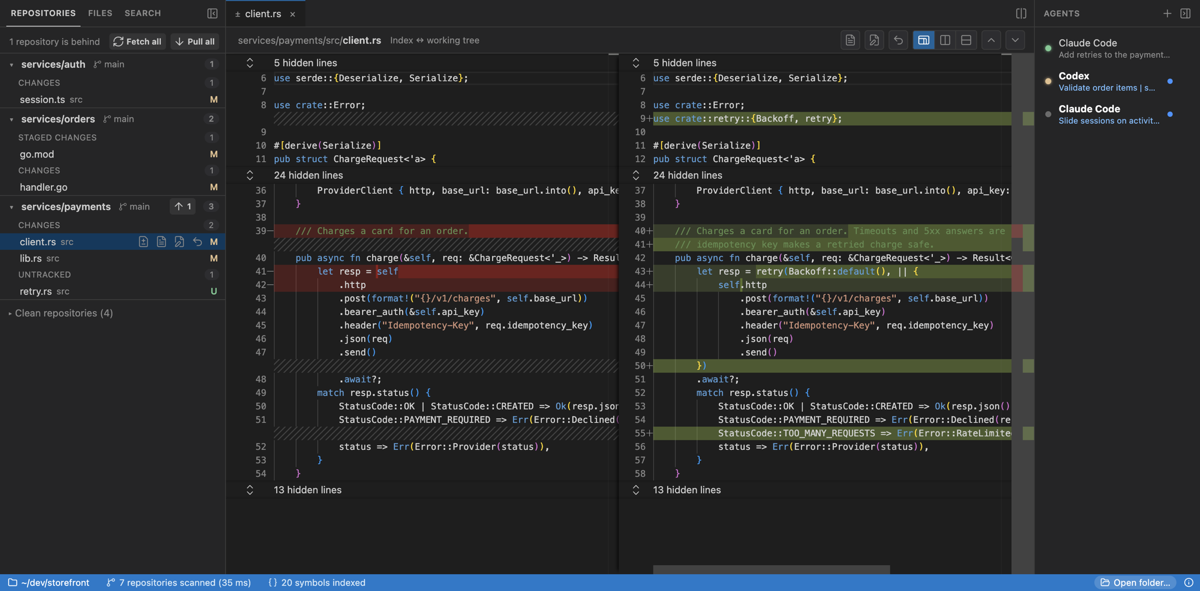
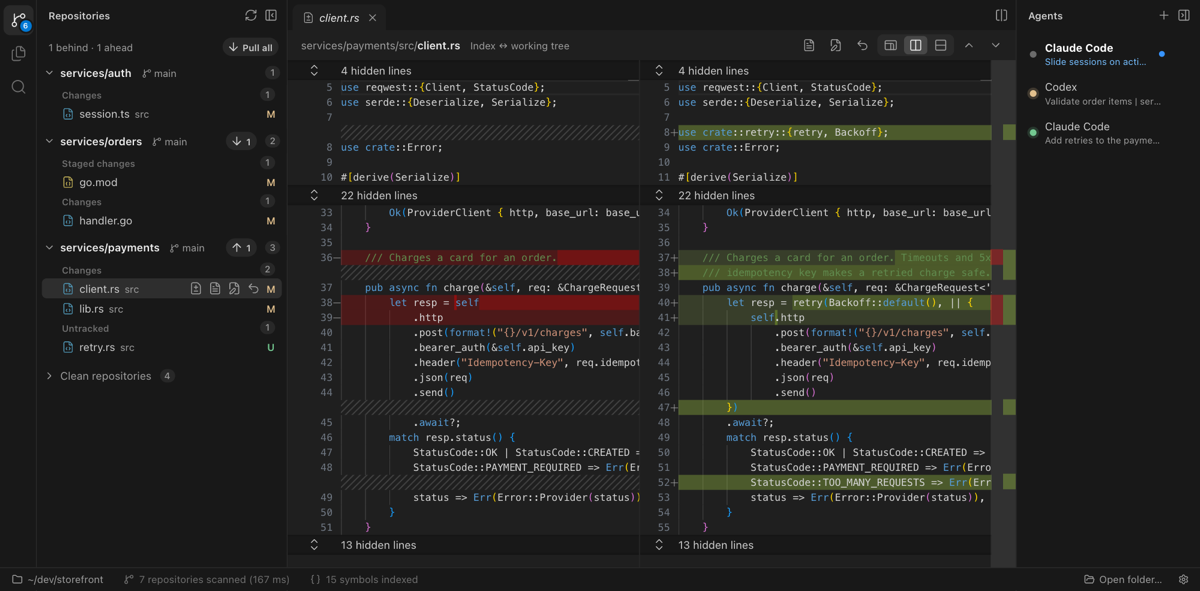
Show 0.20.0 as the latest release, in its new look
New screenshots and preview image from 0.20.0, and the agent bar's
sample with the app's own "Agents" heading.

diff --git a/index.html b/index.html
@@ -93,7 +93,7 @@
     .btn svg { width: 18px; height: 18px; }
     .platforms { margin-top: 14px; font-size: 14px; color: var(--muted); }
 
-    .shot { margin: 48px auto 0; border-radius: 12px; overflow: hidden; box-shadow: var(--shadow); border: 1px solid var(--line); background: #1e1e1e; }
+    .shot { margin: 48px auto 0; border-radius: 12px; overflow: hidden; box-shadow: var(--shadow); border: 1px solid var(--line); background: #181818; }
 
     /* Sections */
     section { padding: 88px 0 0; }
@@ -111,7 +111,7 @@
     /* Agents */
     .split { display: grid; grid-template-columns: 1.05fr 0.95fr; gap: 56px; align-items: center; }
     .agents { background: var(--card); border: 1px solid var(--line); border-radius: var(--radius); padding: 10px; box-shadow: var(--shadow); }
-    .agents .head { font-size: 12px; font-weight: 650; letter-spacing: 0.08em; color: var(--muted); padding: 8px 12px 10px; }
+    .agents .head { font-size: 13px; font-weight: 650; color: var(--muted); padding: 8px 12px 10px; }
     .agent { display: grid; grid-template-columns: 14px 1fr auto; gap: 12px; align-items: center; padding: 12px; border-radius: 10px; }
     .agent + .agent { margin-top: 2px; }
     .agent .dot { width: 10px; height: 10px; border-radius: 50%; }
@@ -192,7 +192,7 @@
 
     <main>
       <div class="hero">
-        <span class="badge"><b>0.11.0</b> Latest release · free software</span>
+        <span class="badge"><b>0.20.0</b> Latest release · free software</span>
         <h1>Supervise coding agents across many repositories</h1>
         <p class="lede">Gako is a lean desktop app for a folder of independent Git repositories. See what your agents changed in every one of them, and know which agent needs you. It sits beside your editor, not in place of it.</p>
         <div class="actions">
@@ -258,7 +258,7 @@
             </ul>
           </div>
           <div class="agents" role="img" aria-label="The agent bar: Claude Code working on payments, Codex waiting for approval on orders, Pi finished on auth.">
-            <div class="head">AGENTS</div>
+            <div class="head">Agents</div>
             <div class="agent working"><span class="dot"></span><div><div class="name">Claude Code</div><div class="topic">Add retries to the payments client</div></div><span class="state">Working</span></div>
             <div class="agent waiting"><span class="dot"></span><div><div class="name">Codex</div><div class="topic">Validate order items · services/orders</div></div><span class="state">Waiting for you</span></div>
             <div class="agent done"><span class="dot"></span><div><div class="name">Pi</div><div class="topic">services/auth</div></div><span class="state">Finished</span></div>
